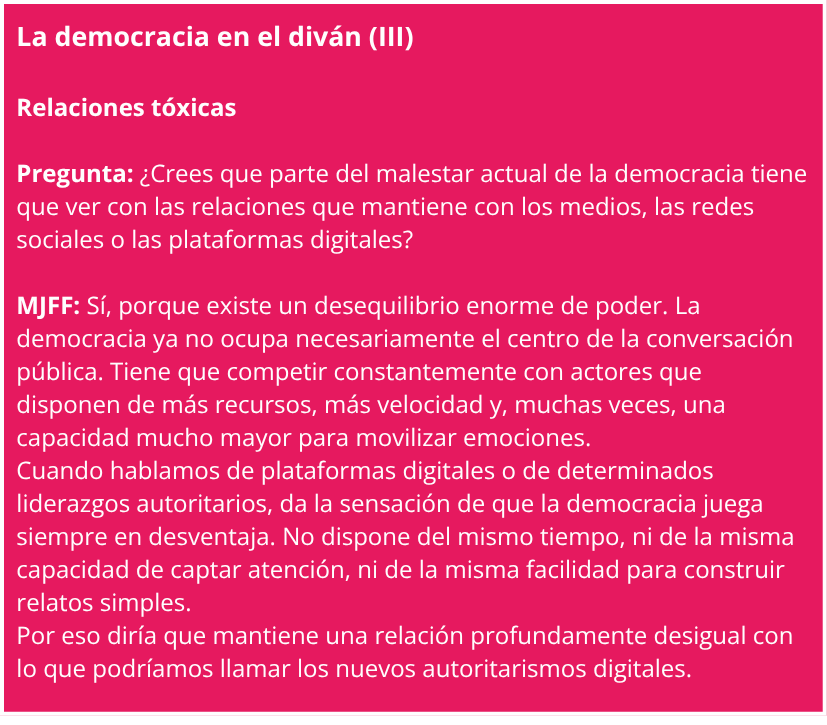
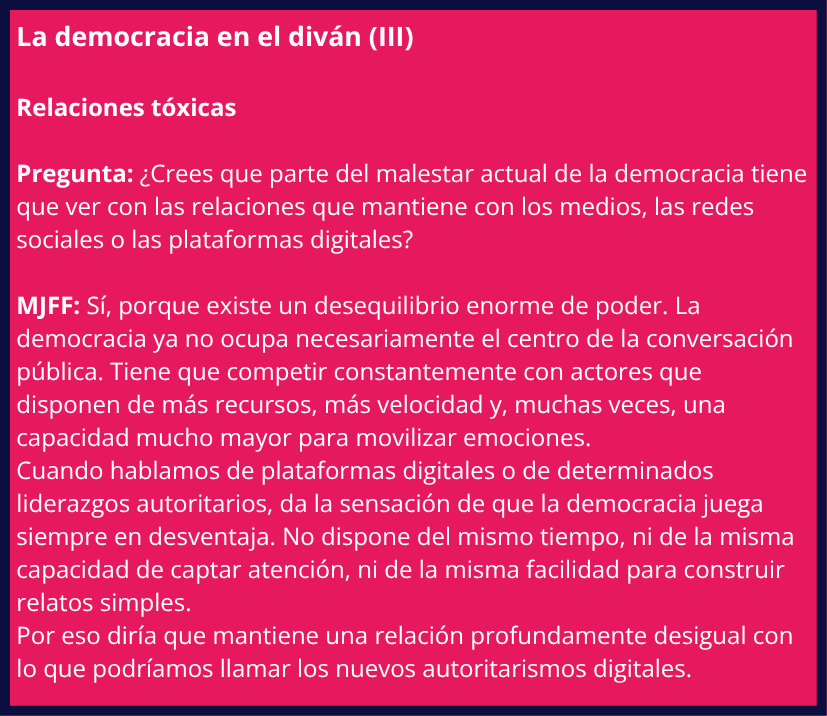
Update Artículo “masculinidades-conscientes”

Changed region(s): [[0.0, 0.0, 1.0, 1.0]]

diff --git a/_articles/es/masculinidades-conscientes.md b/_articles/es/masculinidades-conscientes.md
@@ -137,7 +137,7 @@ Eso ha provocado que algunos chicos vivan ciertos espacios educativos como lugar
 
 Y cuando una persona siente que está siendo juzgada, difícilmente se abre a la reflexión.
 
-{% gallery { "simple": true, "images": [{"path":"/media/captura-de-pantalla-2026-08-07-a-las-12.00.44.png"}] } %}
+{% gallery { "simple": true, "images": [{"path":"/media/3.png"}] } %}
 
 ## **Entender antes que juzgar**
 
